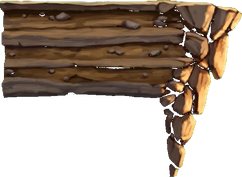
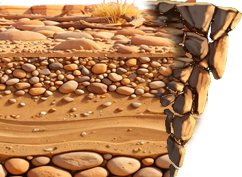
Glen's repainted pit edges (Gibeah's cave kit p_left / p_right, now in the ground's own soil) in every room that uses them, Ziklag's brook Besor included (its stand-in bank copies removed); an olive press by the brook Besor (Glen: "there are no olive presses in ziklag. put one by the brook"), the tw
Claude-Session: https://claude.ai/code/session_018JCxWJ972csv1aoHy7ivxa

diff --git a/game/zk7.js b/game/zk7.js
@@ -152,7 +152,8 @@ function zkBuild(R) {
   c = R("besor");
   { const rm = "besor", X = k => (c + k) * T;
     ground(c, c + 69);
-    for (const k of [6, 10, 14, 18]) zk.men.push(P(rm, "men_hungry", X(k), k % 8 ? 1 : -1, () => zkHas("z7_besor")));
+    for (const k of [4, 8, 12, 16]) zk.men.push(P(rm, "men_hungry", X(k), k % 8 ? 1 : -1, () => zkHas("z7_besor")));
+    campfire(c + 21, GR - 1);   // (Glen 11-24: "there are no olive presses in ziklag. put one by the brook") the save point
     zk.brook = { room: rm, c0: c + 26, c1: c + 36 };
     rHole(rm, c + 26, 10);
     h7Rock(rm, "sand", "s", 29.2, GR * T - 12);   // (a rock in the brook: jump to it, and on over; Glen 11-24: down in the water, not floating over it)
@@ -180,13 +181,8 @@ function zkBuild(R) {
                   [78, "villager_woman_stand", "boy_sit"], [98, "villager_woman_stand", "girl_sit_talk"], [112, "abigail_idle", "villager_woman_stand", true]];
     for (const [k, a, b, wives] of fams) zk.captives.push({ room: rm, x: X(k), a, b, wives: !!wives, free: won, t: 0, gone: won });
   }
-  // (Glen 11-24: "what is the sediment from? Gibeah I think") the pits' edges: Hachilah's build renamed its own before
-  //  these rooms were built, so Ziklag's had Gibeah's cave kit (p_left / p_right). Now Hachilah's soil (h7_pit_*), and
-  //  the brook Besor's banks their own (h7_zk_bank_*, assets/rooms/w7/kit: Glen's to repaint; same size, same top line)
-  for (const p of region.props) if (ZK_ROOMS.includes(p.room) && (p.n === "p_left" || p.n === "p_right"))
-    p.n = (p.room === "besor" ? "h7_zk_bank_" : "h7_pit_") + (p.n === "p_left" ? "left" : "right");
-  Object.assign(KIT, { h7_zk_bank_left: KIT.h7_pit_left, h7_zk_bank_right: KIT.h7_pit_right });
-  kitImg("h7_zk_bank_left"); kitImg("h7_zk_bank_right");
+  // (Glen 11-24) the pits' edges: Glen's repainted p_left / p_right (Gibeah's cave kit, now in this soil), as built here
+  //  (Hachilah's build renames its own pits to h7_pit_* before these rooms are added, so Ziklag's keep Glen's new ones)
 }
 function zkFire(room, c) {   // a fire standing in the street: solid (no way through) till the jar puts it out
   const f = { room, c, x: c * T + T / 2, out: zkHas(`z7_fire_${room}_${c}`), t: 0, steam: 0 };

diff --git a/tools/tests/zk7press.js b/tools/tests/zk7press.js
@@ -1,0 +1,5 @@
+// (11-24) the olive press by the brook Besor: it's there, and saving at it
+startSetup = () => {}; setup.active = false; helpT = 0;
+const log = m => TEST_ERRORS.push("INFO " + m);
+testRun([{ n: 1, fn() { regionAdd("taken", "z7_besor"); const r = roomById("besor"); moveParty((r.c0 + 17) * T, GR * T); snapCamera(); log("presses in besor: " + fires.filter(f => f.x > r.c0 * T && f.x < (r.c0 + r.w) * T).length); } },
+  { keys: [], n: 10 }, { keys: ["ArrowRight"], n: 30 }, { keys: [], n: 40 }, { n: 1, fn() { log("saved at " + region.save.atRoom + " " + region.save.atOff); } }, { keys: [], n: 2, snap: true }]);
